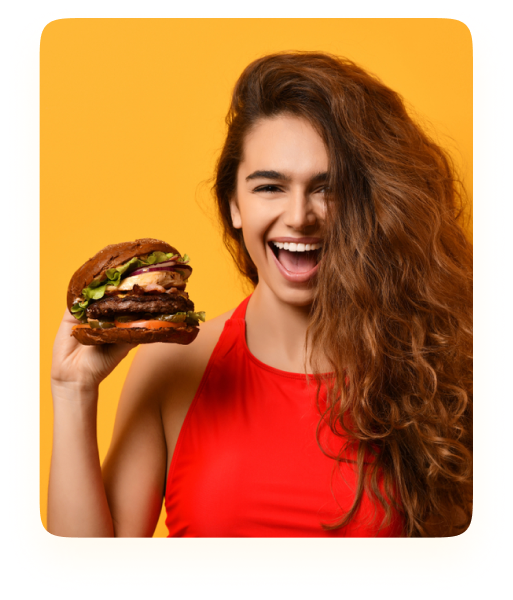
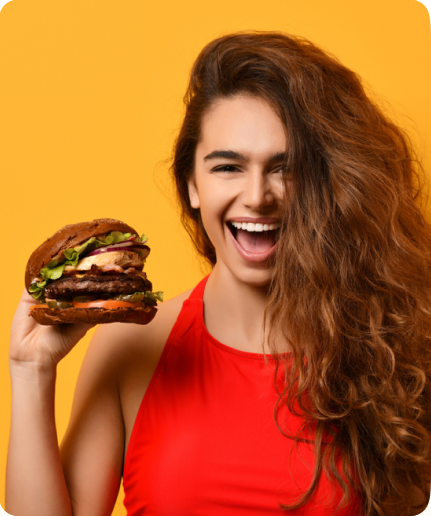
correct review slider

diff --git a/index.html b/index.html
@@ -30,16 +30,17 @@
         <!-- Fonts -->
         <link rel="stylesheet" href="css/fonts.css">
 
-        <!-- Google Fonts -->
+        <!-- Google Fonts -->      
         <!-- <link rel="preconnect" href="https://fonts.googleapis.com">
         <link rel="preconnect" href="https://fonts.gstatic.com" crossorigin>
-        <link href="https://fonts.googleapis.com/css2?family=DM+Sans&family=Rubik:wght@300;400;500;600&display=swap" rel="stylesheet">  -->
+        <link href="https://fonts.googleapis.com/css2?family=DM+Sans&family=Nunito&family=Rubik:wght@300;400;500;600&display=swap" rel="stylesheet"> -->
 
         <!--Styles-->
         <link rel="stylesheet" href="css/normalize.css">
         <link rel="stylesheet" href="css/svg.css">
         <link rel="stylesheet" href="css/slick.css">
         <link rel="stylesheet" href="css/slick-theme.css">
+        <link rel="stylesheet" href="css/media.css">
         <link rel="stylesheet" href="css/style.css">
     </head>
 
@@ -50,6 +51,7 @@
             <nav class="header-nav">
               <a href="#" class="logo-link">
                 E<span>Food</span>
+                <span class="visually-hidden">Home page</span>
               </a>
 
               <ul class="nav-list">
@@ -399,19 +401,20 @@
 
             <section class="review">
               <h2 class="section-heading">What Our Client Are <span>Saying</span></h2>
-              <container>
+              <div class="container">
                 <div class="slider-wrap">
-                  <img class="review-img" src="img/girl.png" width="513" height="600" alt="client">
+                  <img class="review-img" src="img/girl.png" width="431" height="516" alt="client">
                   <div class="text-block">
                     <blockquote>
-                      <p class="review-text"><span>&#8220;</span> EFood has the most intriguing food order system in the country. UI in both their app and web Is very simple and easy to use, enhancing the UX. Their delivery men are also quite professional and knows the neighborhood well. Till now I never had to guide them to my address for delivery<span>&#8221;</span></p>
-                      <cite class="review-cite">Ольга<br> <span>Food lover</span></cite>
+                      <p class="review-text">EFood has the most intriguing food order system in the country. UI in both their app and web Is very simple and easy to use, enhancing the UX. Their delivery men are also quite professional and knows the neighborhood well. Till now I never had to guide them to my address for delivery</p>
+                      <cite class="review-cite">Anglina Jole<br> <span>Food lover</span></cite>
                     </blockquote>
                   </div>
                 </div>
-              </container>
+              </div>
             </section>
         </main>
+
         <!-- footer -->
         <footer>
             <div class="container">

diff --git a/css/style.css b/css/style.css
@@ -421,7 +421,7 @@ color: #363853;
 }
 
 .cards-item p {
-  margin: 0 auto 10px;
+  margin: auto auto 10px;
   text-align: center;
 
   font-family: "Rubik";
@@ -499,6 +499,7 @@ color: #363853;
   background-color: #FF7A50;
   opacity: 0.8;
 }
+
 
 /* section delivery */
 .delivery {
@@ -580,7 +581,6 @@ color: #363853;
 .delivery-item:nth-child(3) {
   background-image: url("../img/svg/restaurant.svg");
 }
-
 
 
 /* section restaurant */
@@ -683,6 +683,7 @@ color: #363853;
   color: #FF7A50;
 }
 
+
 /* section mobile apps */
 .mobile h3 {
   text-align: left;
@@ -733,14 +734,29 @@ color: #363853;
 
 
 /* section review */
+.slider-wrap {
+  display: flex;
+  justify-content: start;
+  flex-wrap: wrap;
+}
+
 .review-img {
   max-width: 100%;
   height: auto;
-  margin: 0 auto;
+  margin: 0;
+  text-align: center;
+}
+
+.text-block {
+  max-width: 660px;
+
+  padding-top: 50px;
 }
 
 .review-text {
-  width: 573px;
+  position: relative;
+
+  max-width: 573px;
 
   font-family: "Rubik";
   font-style: normal;
@@ -749,7 +765,33 @@ color: #363853;
   line-height: 45px;
 
   letter-spacing: 0.5px;
-  }
+}
+
+.review-text::before,
+.review-text::after {
+  position: absolute;
+
+  font-family: "Nunito";
+  font-style: normal;
+  font-weight: normal;
+  font-size: 80px;
+  line-height: 109px;
+  letter-spacing: 0.5px;
+
+  color: #DDDDDD;
+}
+
+.review-text::before {
+  content: '\201C';
+  top: -24px;
+  left: -40px;
+}
+  
+.review-text::after {
+  content: '\201D';
+  bottom: -70px;
+  right: -25px;
+}
 
 .review-cite {
   font-family: "Rubik";
@@ -769,16 +811,4 @@ color: #363853;
   line-height: 17px;
 
   color: #AAAAAA;
-}
-
-.review-text span {
-
-  font-family: Nunito;
-  font-style: normal;
-  font-weight: normal;
-  font-size: 80px;
-  line-height: 109px;
-  letter-spacing: 0.5px;
-
-  color: #DDDDDD;
 }

diff --git a/css/media.css b/css/media.css
@@ -1,0 +1,17 @@
+@media screen and (max-width: 1199.98px) and (min-width: 320px) {
+  .slider-wrap {
+    display: flex;
+    flex-direction: column;
+    justify-content: center;
+    text-align: center;
+  }
+
+  .review-img,.text-block {
+    margin: 0 auto;
+  }
+  
+  .review-img {
+    align-self: center;
+  }
+}
+

diff --git a/css/fonts.css b/css/fonts.css
@@ -44,3 +44,12 @@
      font-weight: 400;
      font-style: normal;
  }
+
+ @font-face {
+     font-family: "Nunito";
+     src: local("Nunito"),
+          url('nunito-regular.woff2') format('woff2'),
+          url('nunito-regular.woff') format('woff');
+     font-weight: 400;
+     font-style: normal;
+ }
